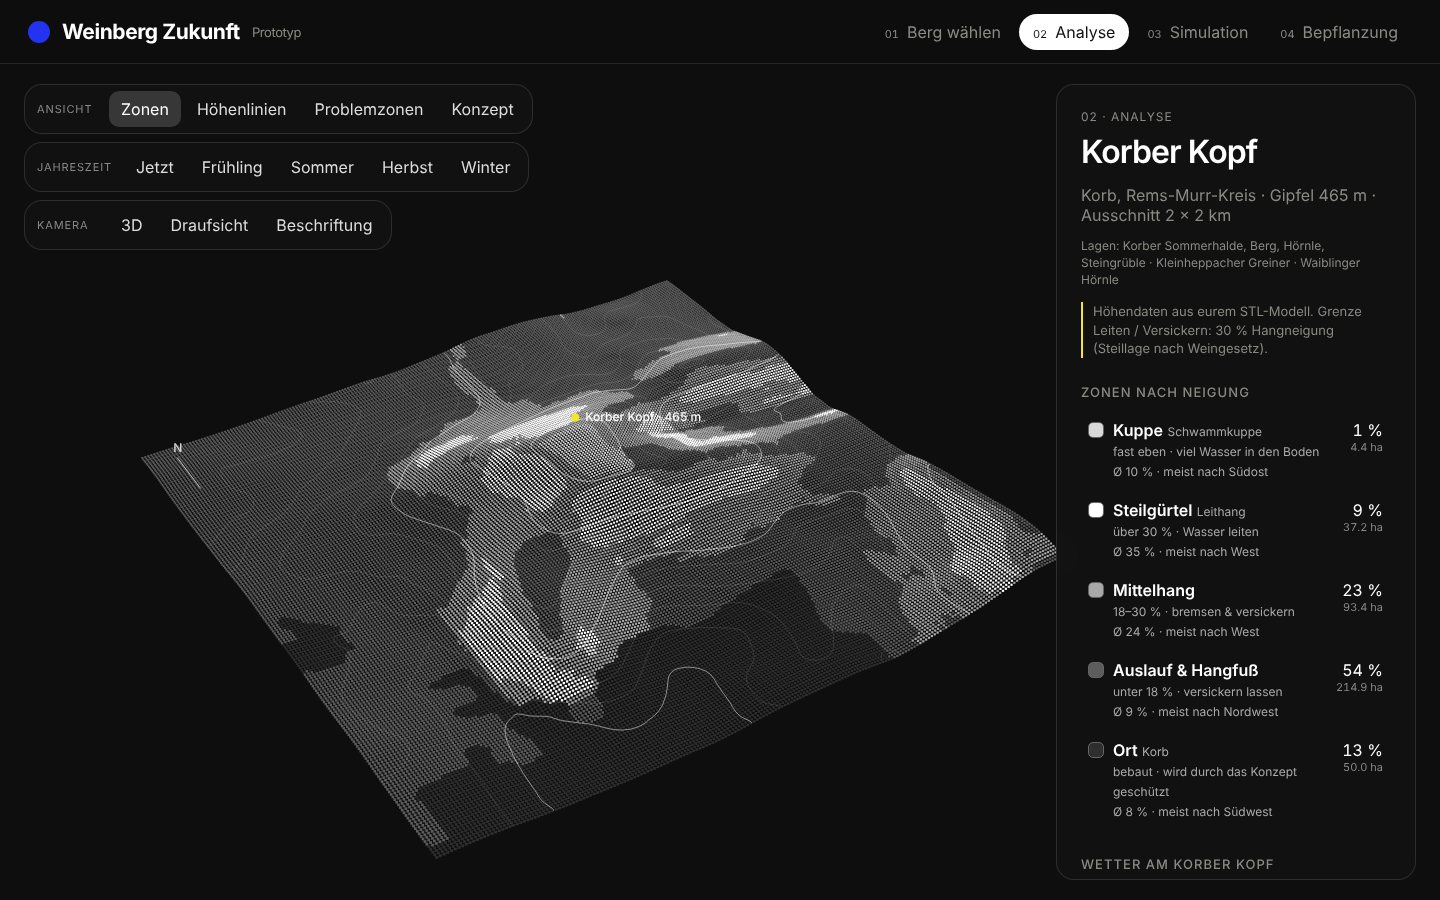
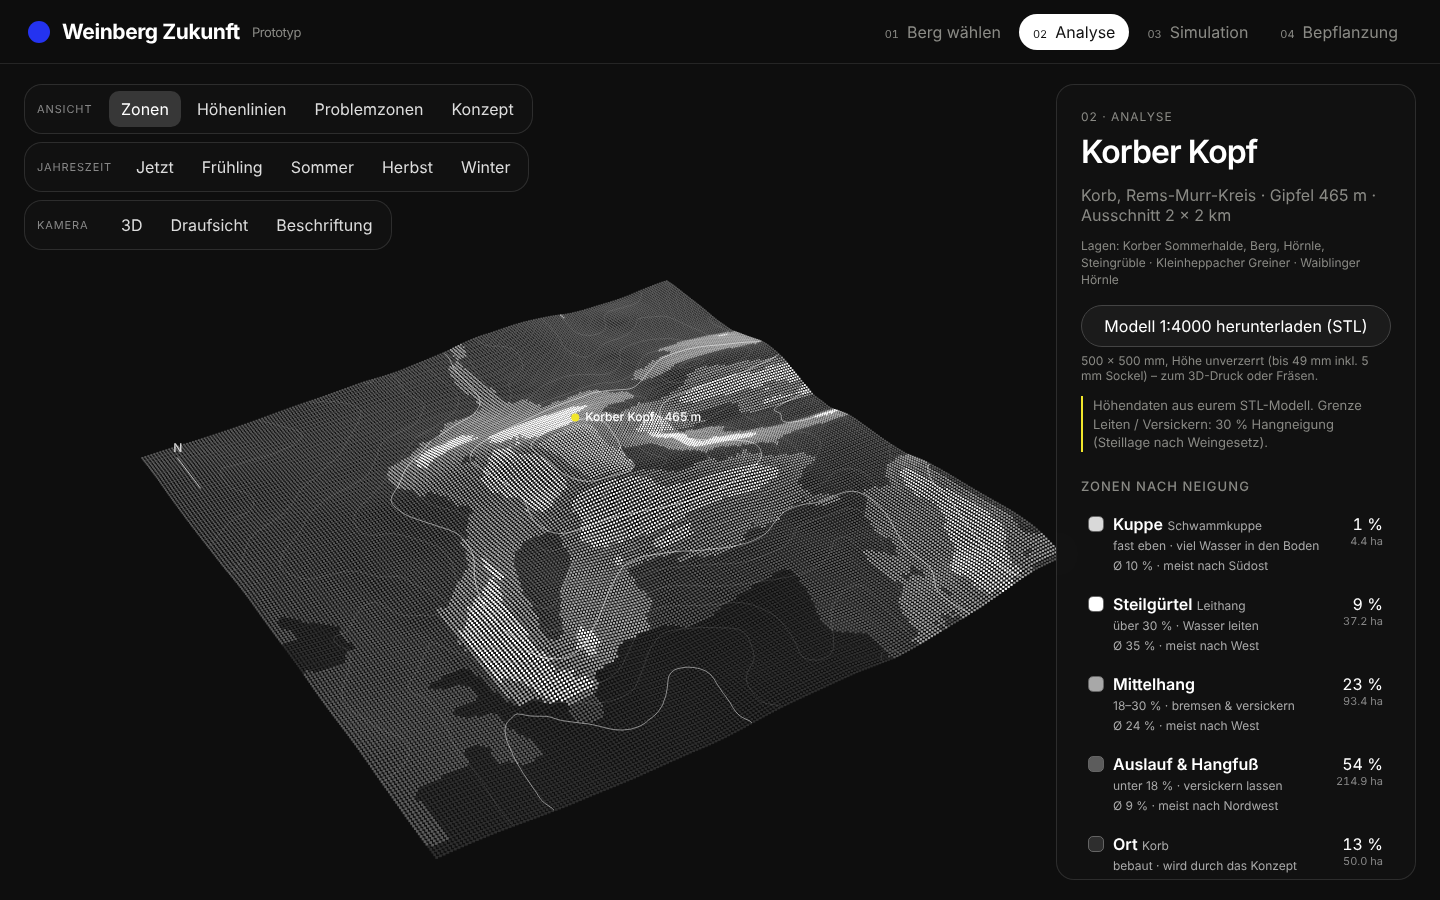
Overpass mit Zeitlimit, Ortsmaske als Lauflängen vorberechenbar
Claude-Session: https://claude.ai/code/session_01KHgQ95zitbWhQ4JCU4xo4p

diff --git a/js/sites.js b/js/sites.js
@@ -14,7 +14,7 @@
  */
 (function () {
   const WB = (window.WB = window.WB || {});
-  const V = '20261124d'; // Version der Skripte (gegen alten Browser-Cache)
+  const V = '20261124e'; // Version der Skripte (gegen alten Browser-Cache)
 
   const SITES = [
     { id: 'korber-kopf', ort: 'Korb', name: 'Korber Kopf', place: 'Korb, Rems-Murr-Kreis', lat: 48.8538, lon: 9.3672, stl: true,
@@ -37,7 +37,7 @@
       lagen: 'Breuningsweiler Holzenberg, Haselstein · Hanweiler Maien, Berg · Winnender Roßberg' },
     { id: 'hertmannsweiler', ort: 'Hertmannsweiler und Bürg', name: 'Hertmannsweiler / Bürg', place: 'Winnenden', lat: 48.887, lon: 9.438,
       lagen: 'Hertmannsweiler und Baacher Himmelreich · Bürger Schlossberg' },
-    { id: 'neustadt', ort: 'Neustadt und Beinstein', name: 'Söhrenberg / Großmulde', place: 'Waiblingen-Neustadt und -Beinstein', lat: 48.842, lon: 9.348,
+    { id: 'neustadt', ort: 'Neustadt und Beinstein', name: 'Söhrenberg / Großmulde', place: 'Waiblingen-Neustadt und -Beinstein', lat: 48.848, lon: 9.344,
       lagen: 'Neustädter Söhrenberg · Beinsteiner Großmulde' },
   ];
 
@@ -120,7 +120,10 @@
     let err;
     for (const h of hosts) {
       try {
-        const r = await fetch(h, { method: 'POST', body: 'data=' + encodeURIComponent(q) });
+        const ctl = new AbortController();
+        const to = setTimeout(() => ctl.abort(), 25000);
+        const r = await fetch(h, { method: 'POST', body: 'data=' + encodeURIComponent(q), signal: ctl.signal });
+        clearTimeout(to);
         if (r.ok) return await r.json();
         err = new Error('Overpass ' + r.status);
       } catch (e) { err = e; }
@@ -195,10 +198,35 @@
     return btoa(s);
   };
 
+  // Ortsmaske als Lauflängen: abwechselnd Anzahl Zellen „kein Ort“ / „Ort“, Basis 36, durch Punkte getrennt
+  const rleEncode = (T) => {
+    const out = [];
+    let cur = 0, n = 0;
+    for (let k = 0; k < T.length; k++) {
+      if (T[k] === cur) n++;
+      else { out.push(n.toString(36)); cur = T[k]; n = 1; }
+    }
+    out.push(n.toString(36));
+    return out.join('.');
+  };
+  const rleDecode = (str) => {
+    const T = new Uint8Array(N * N);
+    let k = 0, cur = 0;
+    for (const part of str.split('.')) {
+      const n = parseInt(part, 36);
+      if (cur) T.fill(1, k, k + n);
+      k += n; cur ^= 1;
+    }
+    return T;
+  };
+
   async function build(s, status) {
     const H = await heights(s, status);
     let tw = null, townNote = 'Ort aus OpenStreetMap';
-    try { tw = await town(s, status); } catch (e) { townNote = 'Ort konnte nicht geladen werden (OpenStreetMap nicht erreichbar)'; }
+    if (s.town) tw = rleDecode(s.town); // vorab aus OpenStreetMap berechnet (Stand 24.11.2026)
+    else {
+      try { tw = await town(s, status); } catch (e) { townNote = 'Ort konnte nicht geladen werden (OpenStreetMap nicht erreichbar)'; }
+    }
     let min = Infinity;
     for (const h of H) min = Math.min(min, h);
     const baseDm = Math.floor(min * 10) - 10;
@@ -260,5 +288,6 @@
     }
     await loadScripts();
   }
+  WB.siteTools = { town: (s) => town(s, () => {}), rleEncode };
   boot();
 })();

diff --git a/index.html b/index.html
@@ -4,7 +4,7 @@
   <meta charset="utf-8" />
   <meta name="viewport" content="width=device-width, initial-scale=1" />
   <title>Weinberg Zukunft – Weinberge zukunftsorientiert denken</title>
-  <link rel="stylesheet" href="styles.css?v=20261124d" />
+  <link rel="stylesheet" href="styles.css?v=20261124e" />
 </head>
 <body>
   <header class="topbar">
@@ -153,7 +153,7 @@
     </div>
   </section>
 
-  <script src="js/korber-kopf-data.js?v=20261124d"></script>
-  <script src="js/sites.js?v=20261124d"></script>
+  <script src="js/korber-kopf-data.js?v=20261124e"></script>
+  <script src="js/sites.js?v=20261124e"></script>
 </body>
 </html>
